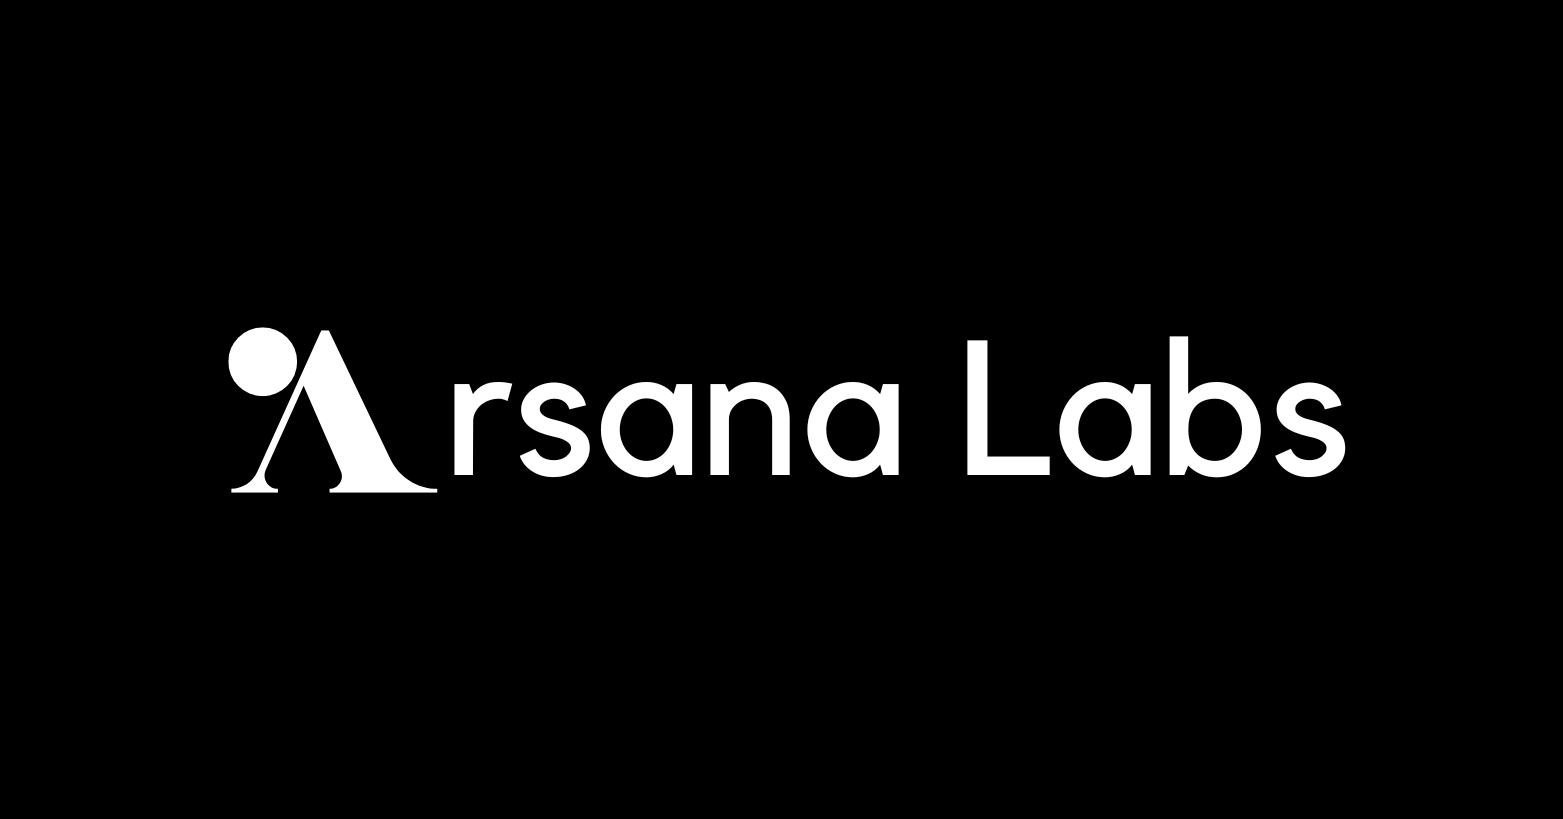
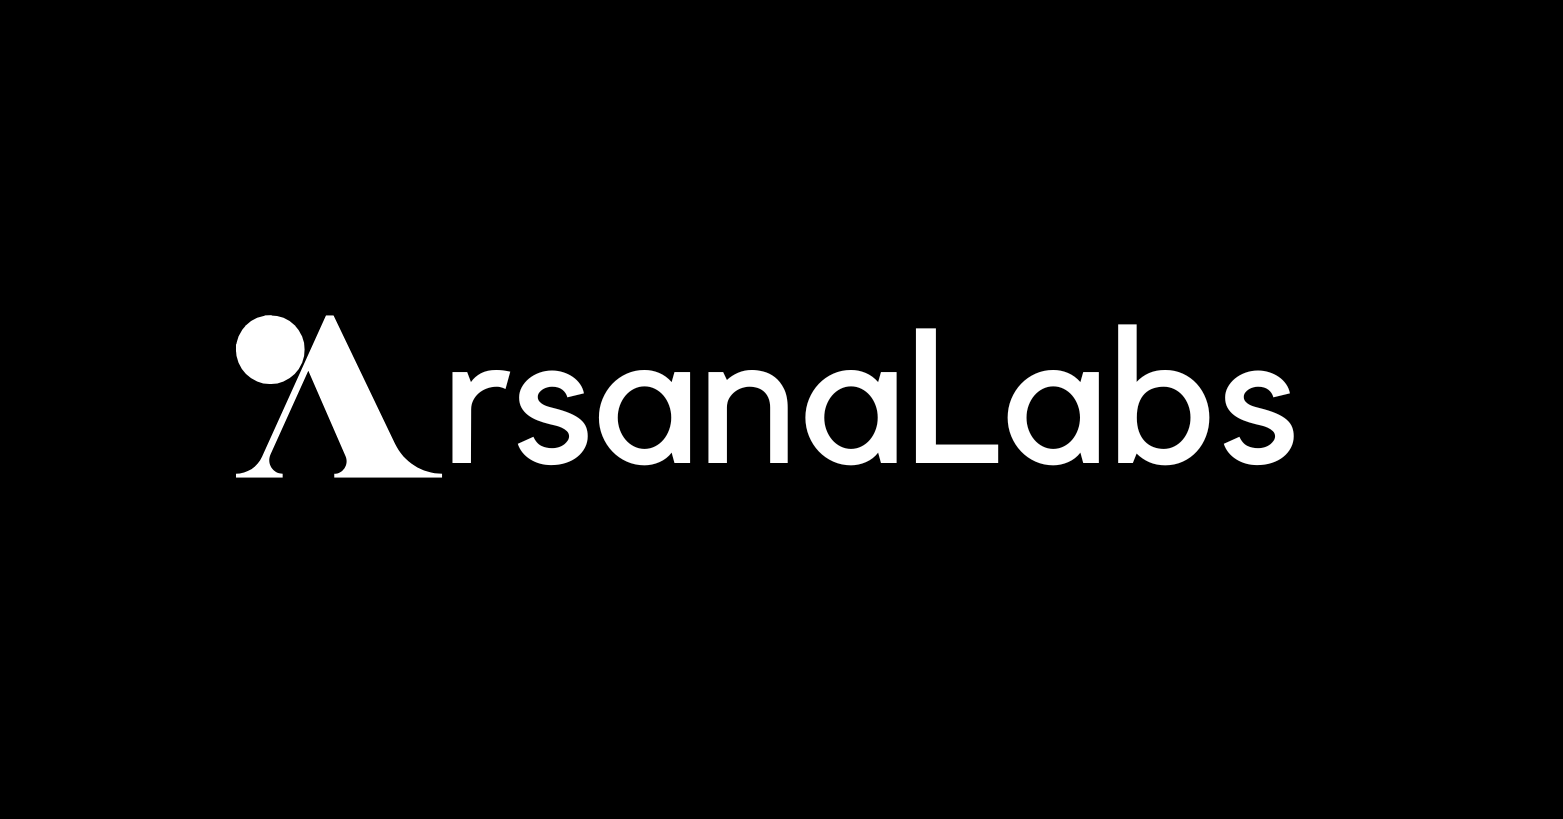
rebrand: Arsana Labs -> ArsanaLabs

Changed region(s): [[0.1536, 0.3663, 0.8599, 0.6105], [0.1228, 0.4274, 0.1536, 0.4579]]

diff --git a/app/page.tsx b/app/page.tsx
@@ -1,5 +1,5 @@
 import Image from "next/image";
-import { Github, Folders, Calendar } from "lucide-react";
+import { Github, Calendar } from "lucide-react";
 
 export default function Home() {
   return (
@@ -7,7 +7,7 @@ export default function Home() {
       <main className="flex flex-col gap-8 row-start-2 items-center sm:items-start">
         <Image
           className="dark:invert"
-          src="/logo-h-trans-croped.png"
+          src="/logo-full-trans-crop.png"
           alt="arsanalabs logo"
           width={180}
           height={38}
@@ -26,15 +26,6 @@ export default function Home() {
           >
             <Github size={20} />
             GitHub
-          </a>
-          <a
-            className="rounded-full border border-solid border-black/[.08] dark:border-white/[.145] transition-colors flex items-center justify-center hover:bg-[#f2f2f2] dark:hover:bg-[#1a1a1a] hover:border-transparent text-sm sm:text-base h-10 sm:h-12 px-4 sm:px-5 sm:min-w-44 gap-2"
-            href="https://github.com/orgs/arsana-labs/repositories"
-            target="_blank"
-            rel="noopener noreferrer"
-          >
-            <Folders size={20} />
-            View Projects
           </a>
           <a
             className="rounded-full border border-solid border-black/[.08] dark:border-white/[.145] transition-colors flex items-center justify-center hover:bg-[#f2f2f2] dark:hover:bg-[#1a1a1a] hover:border-transparent text-sm sm:text-base h-10 sm:h-12 px-4 sm:px-5 sm:min-w-44 gap-2"

diff --git a/app/layout.tsx b/app/layout.tsx
@@ -13,17 +13,17 @@ const geistMono = Geist_Mono({
 });
 
 export const metadata: Metadata = {
-  title: "Arsana Labs",
+  title: "ArsanaLabs",
   description:
     "We build open-source products and provide expert software consulting.",
   metadataBase: new URL("https://arsanalabs.com"),
   openGraph: {
     type: "website",
-    title: "Arsana Labs",
+    title: "ArsanaLabs",
     description:
       "We build open-source products and provide expert software consulting.",
     url: "https://arsanalabs.com",
-    siteName: "Arsana Labs",
+    siteName: "ArsanaLabs",
     images: [
       {
         url: "/opengraph-image.jpg",
@@ -32,7 +32,7 @@ export const metadata: Metadata = {
   },
   twitter: {
     card: "summary_large_image",
-    title: "Arsana Labs",
+    title: "ArsanaLabs",
     description:
       "We build open-source products and provide expert software consulting.",
     images: ["/opengraph-image.jpg"],

diff --git a/README.md b/README.md
@@ -1,6 +1,6 @@
-## Official website of Arsana Labs
+## Official website of ArsanaLabs
 
-Live: https://arsana-labs.github.io/arsanalabs
+Live: [ArsanaLabs.com](https://arsanalabs.com)
 
 ## Setup guide
 
